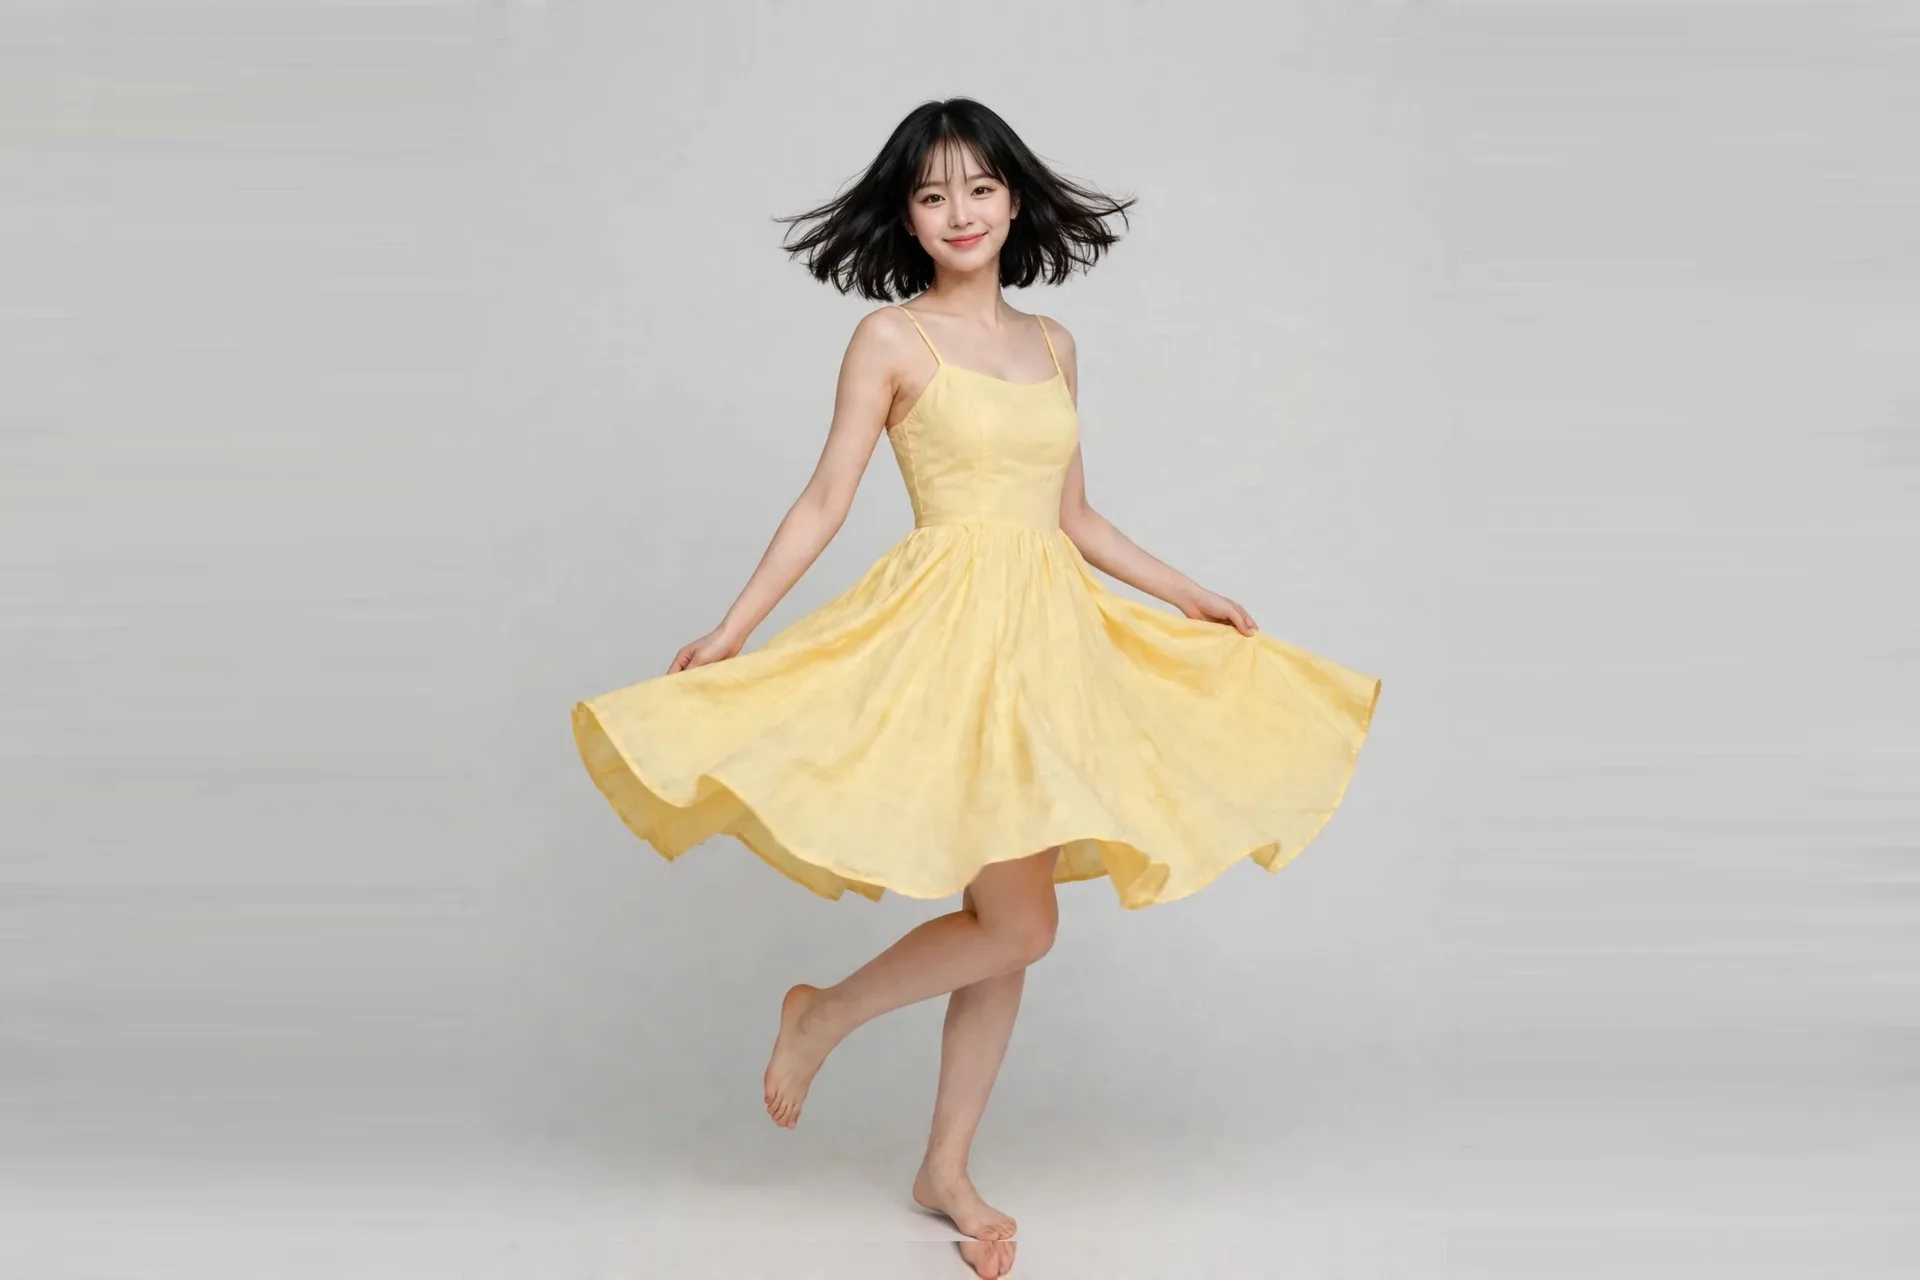
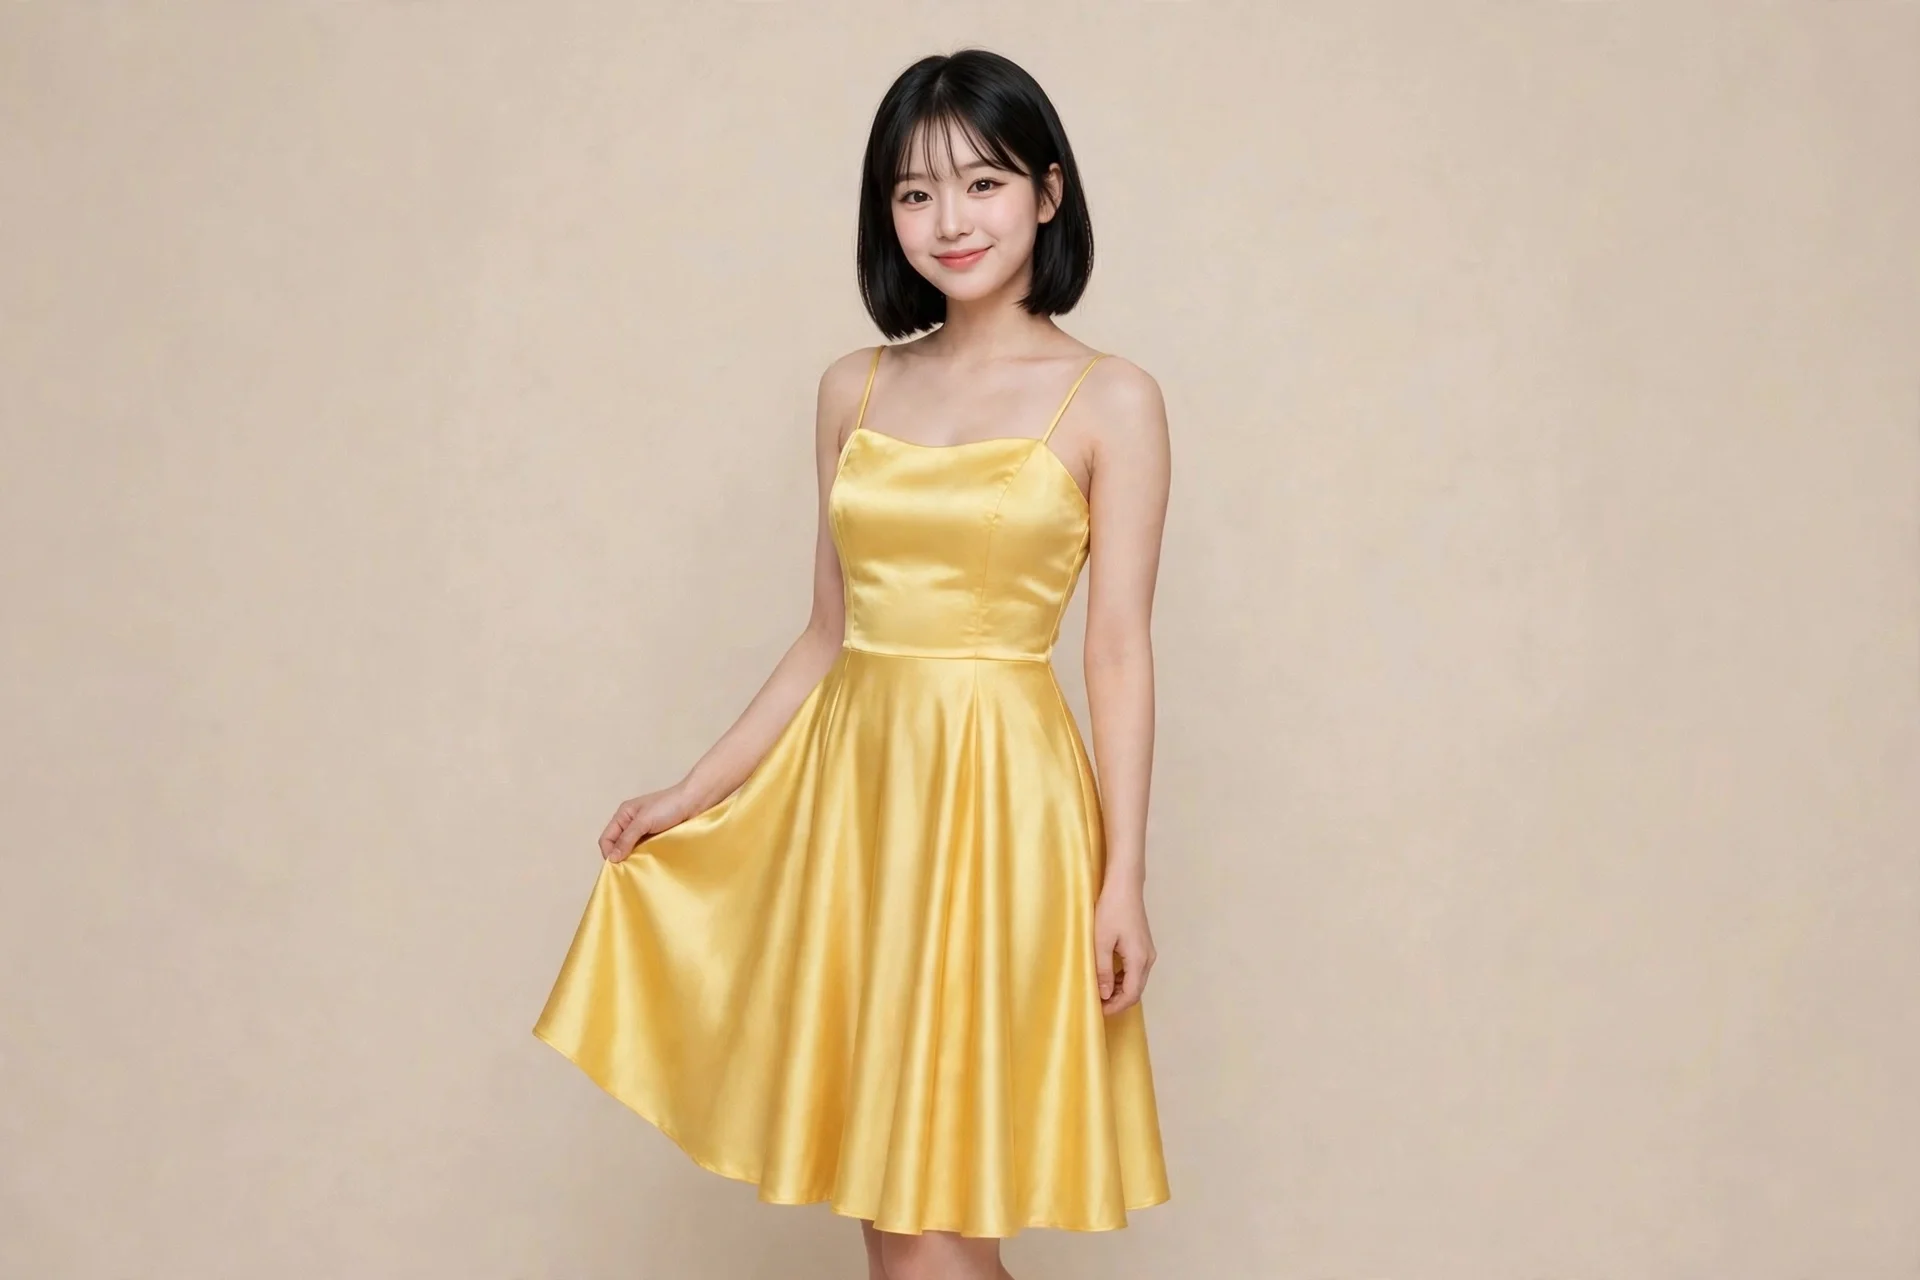
Fix Sena studio2 6: yellow sundress still-hair regen (v263)

diff --git a/index.html b/index.html
@@ -51,7 +51,7 @@
 <body>
 <header>
   <h1 id="album-title">Mia's Album</h1>
-  <p id="album-sub">확정 얼굴 기준의 컷 모음 (총 177컷) · 버전 262</p>
+  <p id="album-sub">확정 얼굴 기준의 컷 모음 (총 177컷) · 버전 263</p>
   <div class="char-switch" role="tablist" aria-label="캐릭터 선택">
     <button type="button" class="char-btn active" id="btn-mia">Mia</button>
     <button type="button" class="char-btn" id="btn-sua">Sua</button>
@@ -382,7 +382,7 @@
     <div class="card" data-cap="Sena 스튜디오2 3 — 버건디 오프숄더 롱, 돌아봄 미소"><img src="img/sena-studio2-w3.webp" alt="Sena 스튜디오2 3"><div class="cap">버건디 오프숄더 · 돌아봄</div></div>
     <div class="card" data-cap="Sena 스튜디오2 4 — 화이트 민소매 여름 원피스, 하이앵글 놀람"><img src="img/sena-studio2-w4.webp" alt="Sena 스튜디오2 4"><div class="cap">화이트 · 하이앵글 놀람</div></div>
     <div class="card" data-cap="Sena 스튜디오2 5 — 하늘 랩 원피스, 치마 잡고 윙크"><img src="img/sena-studio2-w5.webp" alt="Sena 스튜디오2 5"><div class="cap">하늘 랩 · 윙크</div></div>
-    <div class="card" data-cap="Sena 스튜디오2 6 — 노란 선드레스, 빙글 돌며 미소"><img src="img/sena-studio2-w6.webp" alt="Sena 스튜디오2 6"><div class="cap">노란 선드레스 · 빙글</div></div>
+    <div class="card" data-cap="Sena 스튜디오2 6 — 노란 새틴 선드레스, 스커트 살짝 잡고 미소"><img src="img/sena-studio2-w6.webp" alt="Sena 스튜디오2 6"><div class="cap">노란 새틴 · 스커트 잡고</div></div>
     <div class="card" data-cap="Sena 스튜디오2 7 — 아이보리 새틴 슬립, 바닥에 앉아 올려다봄"><img src="img/sena-studio2-w7.webp" alt="Sena 스튜디오2 7"><div class="cap">아이보리 새틴 · 앉아 올려다봄</div></div>
     <div class="card" data-cap="Sena 스튜디오2 8 — 민트 바디콘, 어깨 너머로 돌아보며"><img src="img/sena-studio2-w8.webp" alt="Sena 스튜디오2 8"><div class="cap">민트 바디콘 · 돌아봄</div></div>
     <div class="card" data-cap="Sena 스튜디오2 9 — 라벤더 새틴 랩, 의자에 앉아 다리 꼬고"><img src="img/sena-studio2-w9.webp" alt="Sena 스튜디오2 9"><div class="cap">라벤더 새틴 · 앉은 자세</div></div>
@@ -988,27 +988,27 @@
     btnYuna.classList.toggle('active', name === 'yuna');
     if (name === 'ciel'){
       albumTitle.textContent = "Ciel's Album";
-      albumSub.textContent = '단발 귀여운상 기준의 컷 모음 (총 4컷) · 버전 262';
+      albumSub.textContent = '단발 귀여운상 기준의 컷 모음 (총 4컷) · 버전 263';
       document.title = "Ciel's Album";
     } else if (name === 'sena'){
       albumTitle.textContent = "Sena's Album";
-      albumSub.textContent = '시크한 단발 귀염상 기준의 컷 모음 (총 50컷) · 버전 262';
+      albumSub.textContent = '시크한 단발 귀염상 기준의 컷 모음 (총 50컷) · 버전 263';
       document.title = "Sena's Album";
     } else if (name === 'sua'){
       albumTitle.textContent = "Sua's Album";
-      albumSub.textContent = '차분한 귀염상 기준의 컷 모음 (총 223컷) · 버전 262';
+      albumSub.textContent = '차분한 귀염상 기준의 컷 모음 (총 223컷) · 버전 263';
       document.title = "Sua's Album";
     } else if (name === 'lena'){
       albumTitle.textContent = "Lena's Album";
-      albumSub.textContent = '긴 웨이브 청순상 기준의 컷 모음 (총 0컷) · 버전 262';
+      albumSub.textContent = '긴 웨이브 청순상 기준의 컷 모음 (총 0컷) · 버전 263';
       document.title = "Lena's Album";
     } else if (name === 'yuna'){
       albumTitle.textContent = "Yuna's Album";
-      albumSub.textContent = '긴 웨이브 청순 성숙상 기준의 컷 모음 (총 87컷) · 버전 262';
+      albumSub.textContent = '긴 웨이브 청순 성숙상 기준의 컷 모음 (총 87컷) · 버전 263';
       document.title = "Yuna's Album";
     } else {
       albumTitle.textContent = "Mia's Album";
-      albumSub.textContent = '확정 얼굴 기준의 컷 모음 (총 177컷) · 버전 262';
+      albumSub.textContent = '확정 얼굴 기준의 컷 모음 (총 177컷) · 버전 263';
       document.title = "Mia's Album";
     }
     cards = allCards.filter(c => c.offsetParent !== null);

diff --git a/sw.js b/sw.js
@@ -1,4 +1,4 @@
-const CACHE = 'influencer-album-v262';
+const CACHE = 'influencer-album-v263';
 const IMGCACHE = 'album-images-v1';
 const CORE = ['./', './index.html', './manifest.webmanifest', './icon-192.png', './icon-512.png',
   './img/face-anchor.webp', './img/sua-anchor-main2.webp', './img/ciel-anchor-main.webp', './img/sena-anchor-main.webp', './img/lena-face-anchor.webp', './img/yuna-anchor-main2.webp'];
